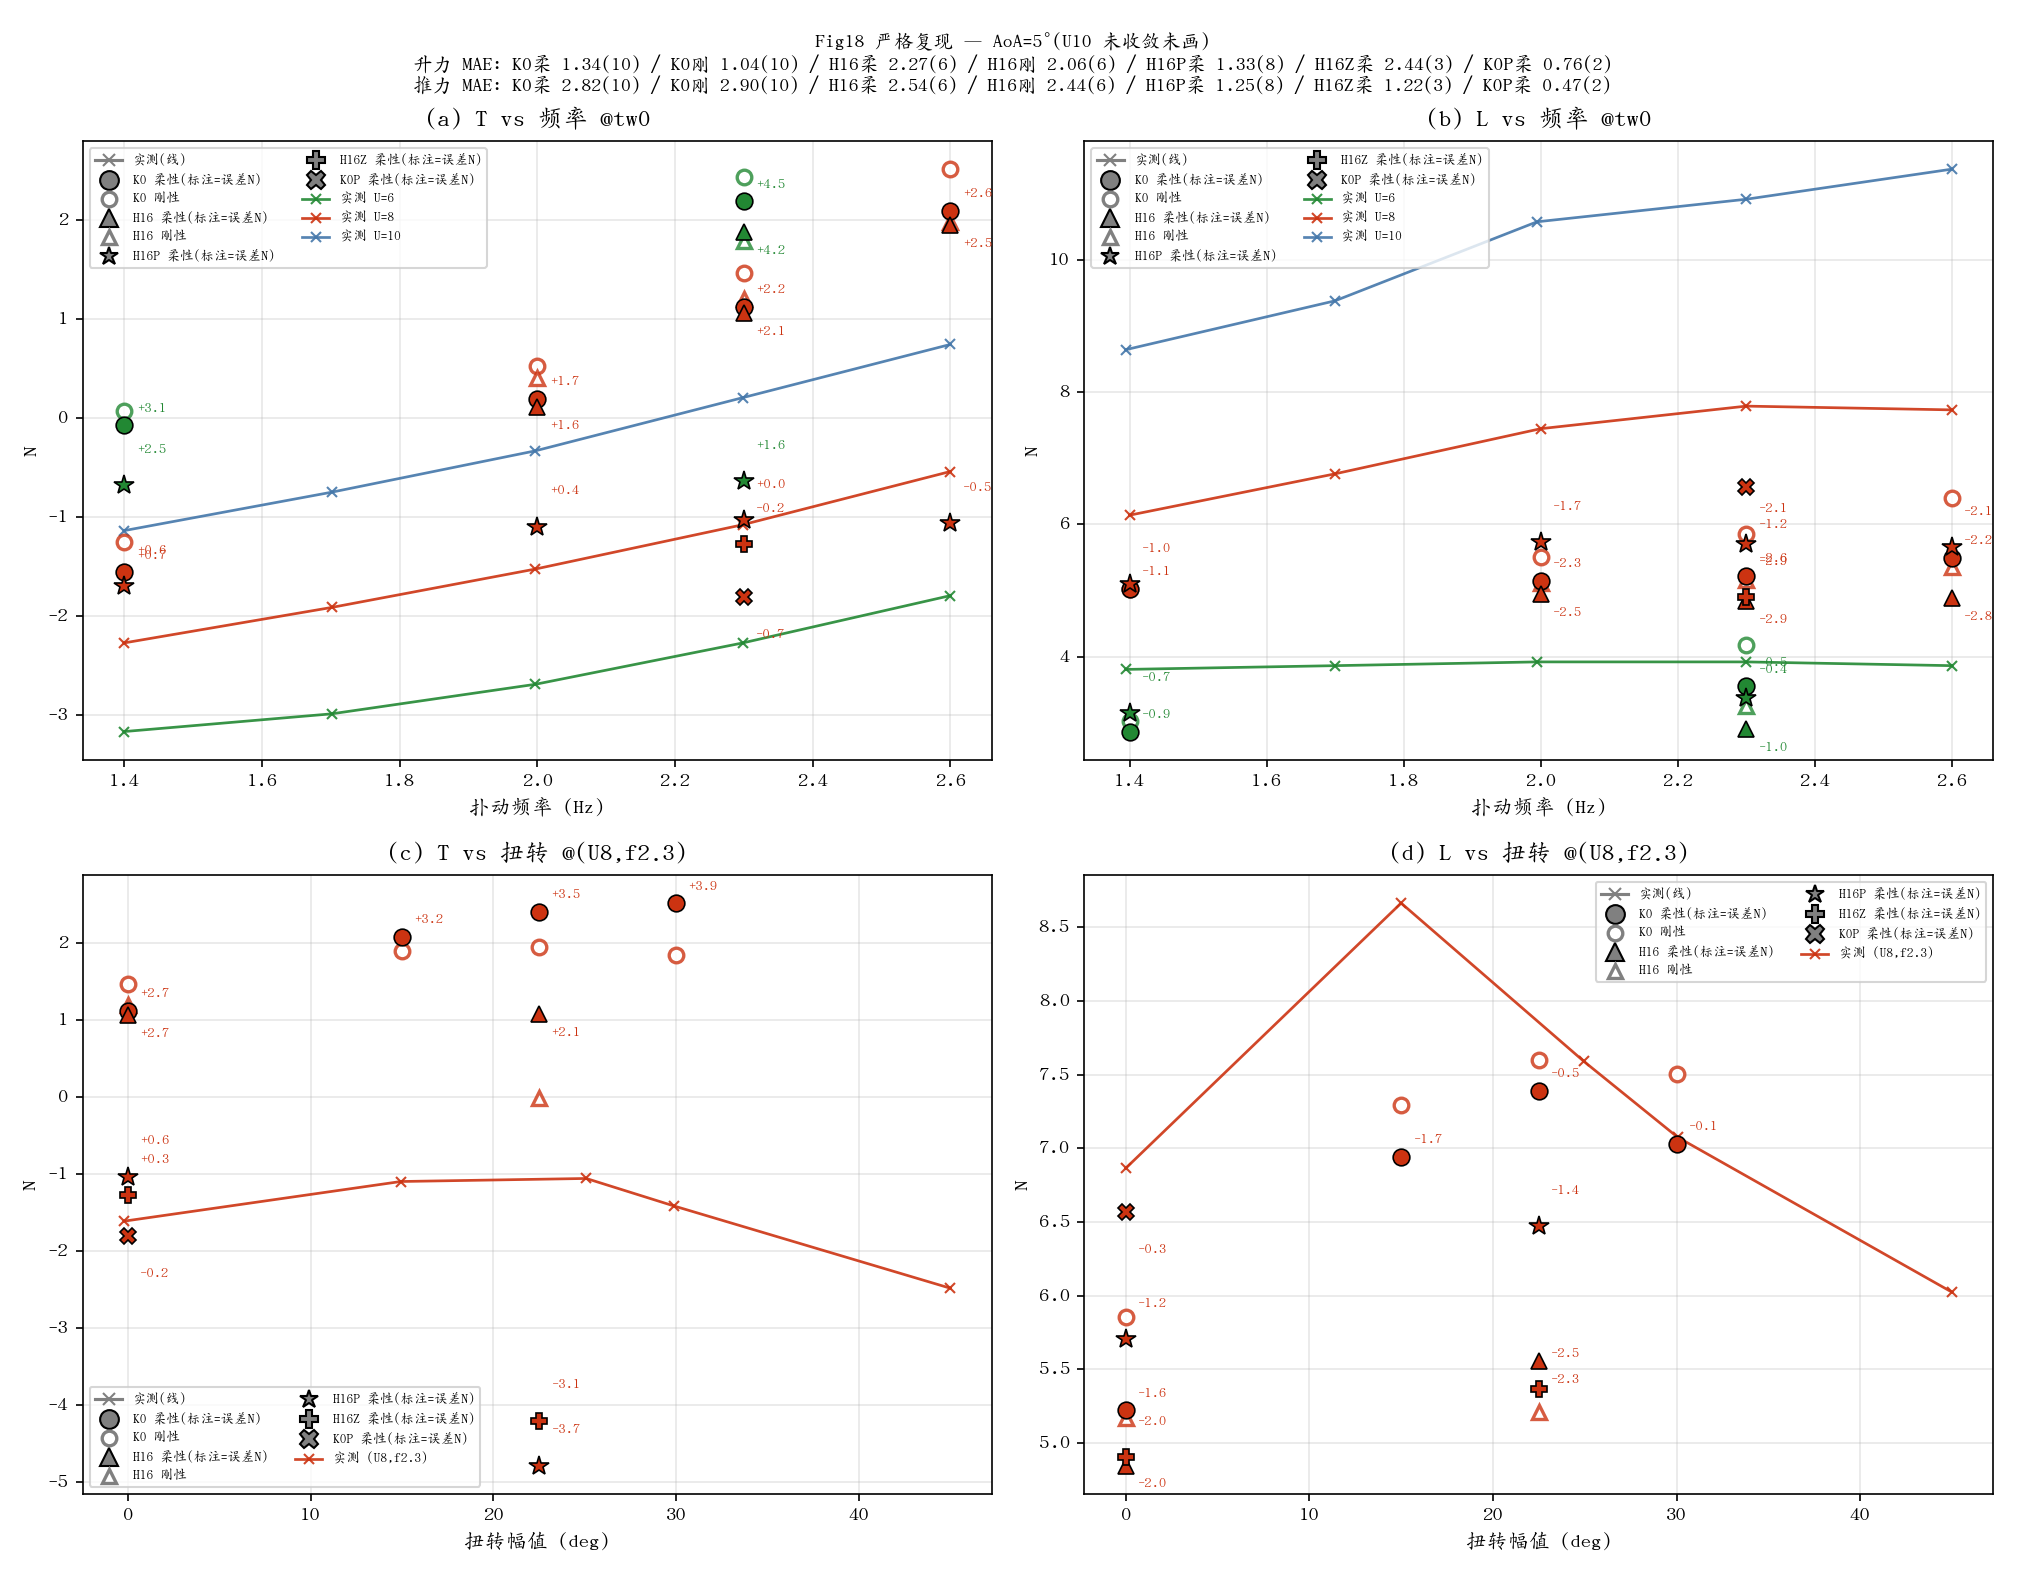
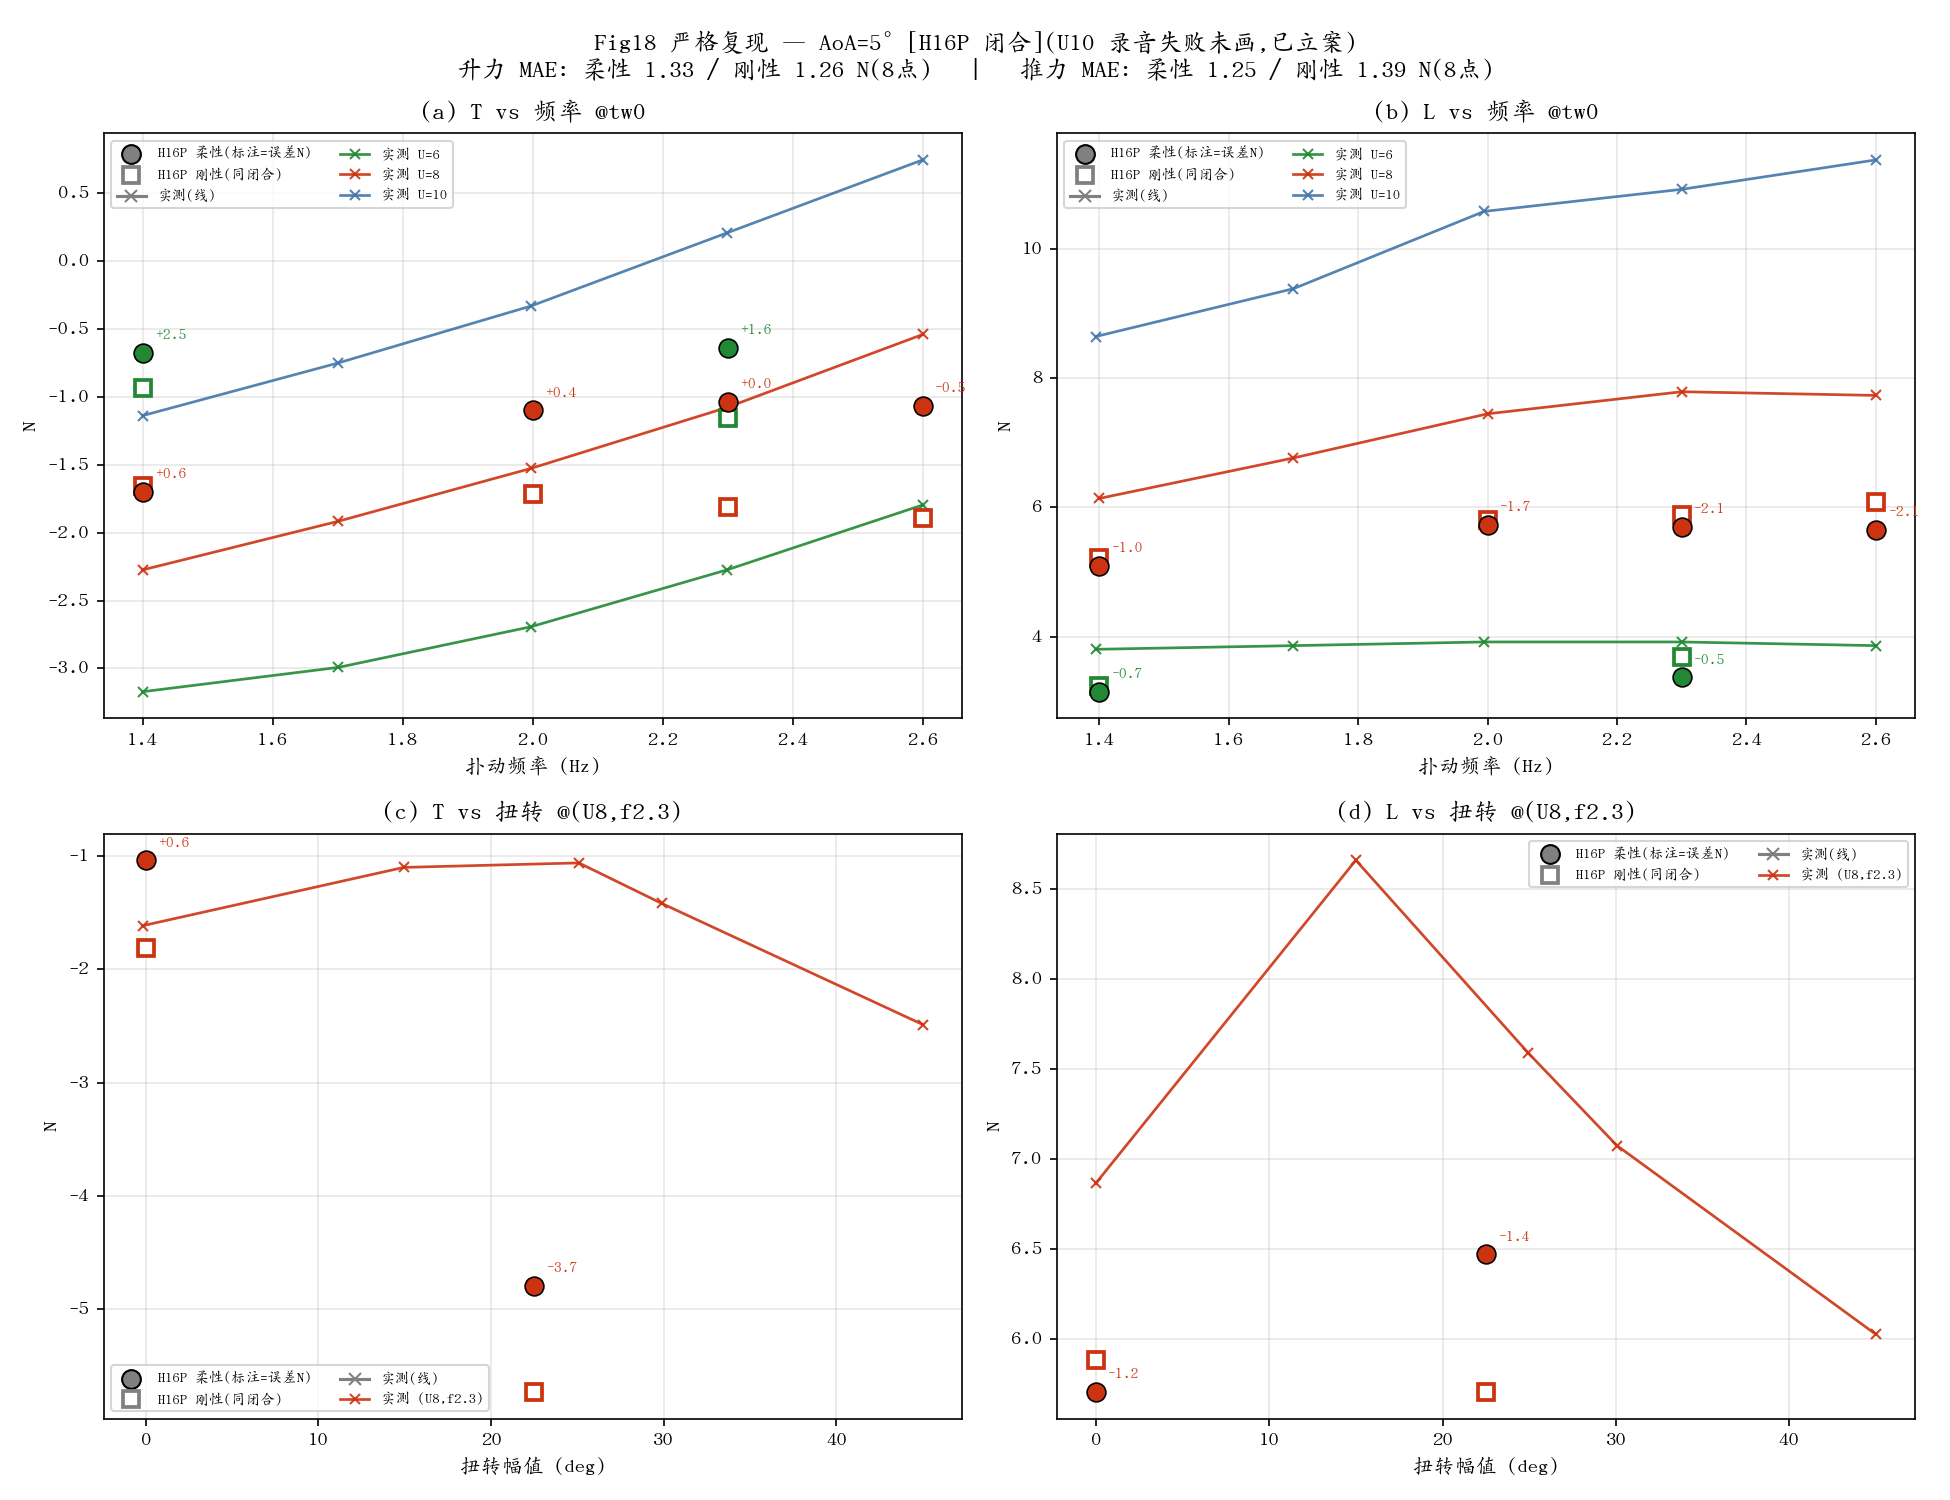
refactor(P2-S6): strict figs show current-best closure only (H16P)
Per review: drop stale K0/H16/H16Z/K0P families from Fig17/18/19; single
H16P family (flex/rigid) + measured, per-point errors, honest unfilled-
condition annotations (tw45/U10 recording failures filed; Fig19 f2.6
twist row recording queued; AoA 0/10/15 rows deferred by decision).

diff --git a/platform/p2_s6_fig_strict.py b/platform/p2_s6_fig_strict.py
@@ -1,12 +1,8 @@
-"""STRICT paper-format Fig17/18/19 reproduction: measured curve families +
-model points from MULTIPLE replay closures (K0, H16, and les_sep-corrected
-when available), flexible (filled) vs rigid (open), with per-point errors and
-per-family MAE summaries. Outputs docs/p2_s6_fig17.png / fig18.png / fig19.png.
+"""STRICT paper-format Fig17/18/19: measured families + the CURRENT BEST closure
+only (H16P = H16 + les_sep='polhamus', nc12 flexible replay; rigid = same closure).
+Per-point error annotations + MAE; unfilled conditions annotated honestly.
 
-Measured lines: docs/repro_data.json (paper digitization; kind field routes
-L/T). Model: docs/s6_results.json (K0), docs/s6_results_h16.json (H16),
-docs/s6_results_lessep.json (les_sep corrected closures, e.g. H16P).
-
+Data: docs/repro_data.json (measured), docs/s6_results_lessep.json (H16P).
 Run: cd FLUXV && python platform/p2_s6_fig_strict.py
 """
 import json
@@ -31,35 +27,15 @@ rcParams["axes.unicode_minus"] = False
 _HERE = os.path.dirname(os.path.abspath(__file__))
 DOCS = os.path.join(_HERE, "docs")
 MEAS = json.load(open(os.path.join(DOCS, "repro_data.json")))
+CFG = "H16P"                                       # current best closure
 
-
-def _load(fn, prefix=""):
-    p = os.path.join(DOCS, fn)
-    pts = {}
-    if not os.path.exists(p):
-        return pts
-    for k, v in json.load(open(p)).items():
-        if "flex" not in v:
-            continue
-        kk = k.split("|")[-1]                     # lessep keys are "CFG|U_f_tw"
-        cfg = v.get("cfg", k.split("|")[0] if "|" in k else prefix)
-        U, f, tw = (float(x) for x in kk.split("_"))
-        pts.setdefault(cfg, {})[(U, f, tw)] = v
-    return pts
-
-# FAMILIES[name] = (points, flex marker, rigid marker, annotation dy)
-_ALL = {}
-_ALL.update(_load("s6_results.json", "K0"))
-_ALL.update(_load("s6_results_h16.json", "H16"))
-_ALL.update(_load("s6_results_lessep.json"))
-FAM_STYLE = {                                     # (marker, ann_offset_y, draw_rigid)
-    "K0":   ("o", 6, True),
-    "H16":  ("^", -11, True),
-    "H16P": ("*", 15, False),
-    "H16Z": ("P", 15, False),
-    "K0P":  ("X", -20, False),
-}
-FAMILIES = {k: v for k, v in _ALL.items() if k in FAM_STYLE}
+PTS = {}
+_p = os.path.join(DOCS, "s6_results_lessep.json")
+if os.path.exists(_p):
+    for k, v in json.load(open(_p)).items():
+        if v.get("cfg") == CFG and "flex" in v:
+            U, f, tw = (float(x) for x in k.split("|")[-1].split("_"))
+            PTS[(U, f, tw)] = v
 
 FREQS = [1.4, 1.7, 2.0, 2.3, 2.6]
 FCOL = {1.4: "#4477aa", 1.7: "#66ccee", 2.0: "#228833", 2.3: "#cc3311",
@@ -74,20 +50,15 @@ def _clear():
 
 
 def _mae(idx):
-    out = []
-    for fam in FAMILIES:
-        for kind in ("flex", "rigid"):
-            e = ERRS.get((fam, kind, idx))
-            if e:
-                out.append(f"{fam}{'柔' if kind=='flex' else '刚'} {np.mean(e):.2f}({len(e)})")
-    return " / ".join(out) if out else "—"
+    fl, rg = ERRS.get(("flex", idx), []), ERRS.get(("rigid", idx), [])
+    if not fl:
+        return "—"
+    return (f"柔性 {np.mean(fl):.2f} / 刚性 {np.mean(rg):.2f} N({len(fl)}点)")
 
 
 def meas_at(key, x):
     d = MEAS.get(key)
-    if d is None:
-        return None
-    return float(np.interp(x, d["x"], d["exp"]))
+    return None if d is None else float(np.interp(x, d["x"], d["exp"]))
 
 
 def draw_meas(ax, key, color, label=None):
@@ -99,45 +70,33 @@ def draw_meas(ax, key, color, label=None):
 
 
 def draw_model(ax, x, cond, idx, mkey, color):
-    """Plot every closure family's flex (filled) + rigid (open) points."""
+    v = PTS.get(cond)
+    if v is None:
+        return
     mv = meas_at(mkey, x)
-    for fam, pts in FAMILIES.items():
-        v = pts.get(cond)
-        if v is None:
-            continue
-        mk, dy, do_rigid = FAM_STYLE[fam]
-        fl = v["flex"][idx]
-        ax.plot(x, fl, mk, ms=10 if mk == "*" else 8, color=color,
-                mec="black", mew=0.8, zorder=6)
-        if do_rigid:
-            ax.plot(x, v["rigid"][idx], mk, ms=7, mfc="white", mec=color,
-                    mew=1.6, zorder=5, alpha=0.8)
-        if mv is not None:
-            ERRS.setdefault((fam, "flex", idx), []).append(abs(fl - mv))
-            if do_rigid:
-                ERRS.setdefault((fam, "rigid", idx), []).append(
-                    abs(v["rigid"][idx] - mv))
-            ax.annotate(f"{fl - mv:+.1f}", (x, fl),
-                        textcoords="offset points", xytext=(6, dy),
-                        fontsize=7, color=color)
+    fl, rg = v["flex"][idx], v["rigid"][idx]
+    ax.plot(x, fl, "o", ms=9, color=color, mec="black", mew=0.8, zorder=6)
+    ax.plot(x, rg, "s", ms=8, mfc="white", mec=color, mew=1.8, zorder=5)
+    if mv is not None:
+        ERRS.setdefault(("flex", idx), []).append(abs(fl - mv))
+        ERRS.setdefault(("rigid", idx), []).append(abs(rg - mv))
+        ax.annotate(f"{fl - mv:+.1f}", (x, fl), textcoords="offset points",
+                    xytext=(6, 6), fontsize=7.5, color=color)
 
 
 def legend_common(ax):
-    h = [Line2D([], [], marker="x", ls="-", color="gray", label="实测(线)")]
-    for fam in FAMILIES:
-        mk, _, do_rigid = FAM_STYLE[fam]
-        h.append(Line2D([], [], marker=mk, ls="", ms=9, mfc="gray",
-                        mec="black", label=f"{fam} 柔性(标注=误差N)"))
-        if do_rigid:
-            h.append(Line2D([], [], marker=mk, ls="", ms=7, mfc="white",
-                            mec="gray", mew=1.6, label=f"{fam} 刚性"))
-    ax.legend(handles=h + ax.get_legend_handles_labels()[0], fontsize=6.5,
+    h = [Line2D([], [], marker="o", ls="", ms=9, mfc="gray", mec="black",
+                label=f"{CFG} 柔性(标注=误差N)"),
+         Line2D([], [], marker="s", ls="", ms=8, mfc="white", mec="gray",
+                mew=1.8, label=f"{CFG} 刚性(同闭合)"),
+         Line2D([], [], marker="x", ls="-", color="gray", label="实测(线)")]
+    ax.legend(handles=h + ax.get_legend_handles_labels()[0], fontsize=7,
               ncol=2, loc="best")
 
 
 def fig17():
     _clear()
-    fig, (axT, axL) = plt.subplots(1, 2, figsize=(13.5, 5.8))
+    fig, (axT, axL) = plt.subplots(1, 2, figsize=(13, 5.5))
     for fr in FREQS:
         draw_meas(axT, f"17|a|{fr}", FCOL[fr], f"实测 f={fr}")
         draw_meas(axL, f"17|b|{fr}", FCOL[fr], f"实测 f={fr}")
@@ -149,8 +108,9 @@ def fig17():
         ax.set_xlabel("扭转幅值 (deg)"); ax.set_ylabel("N")
         ax.grid(alpha=0.3); ax.set_title(ttl)
         legend_common(ax)
-    fig.suptitle("Fig17 严格复现 — U=8 m/s, AoA=5°(模型点=f2.3 行; tw45 未收敛未画)\n"
-                 f"升力 MAE: {_mae(0)}\n推力 MAE: {_mae(1)}", fontsize=9.5)
+    fig.suptitle(f"Fig17 严格复现 — U=8, AoA=5°, 模型点=f2.3 行 [{CFG} 闭合]"
+                 "(tw45 录音失败未画,已立案)\n"
+                 f"升力 MAE: {_mae(0)}   |   推力 MAE: {_mae(1)}")
     fig.tight_layout()
     fig.savefig(os.path.join(DOCS, "p2_s6_fig17.png"), dpi=150)
     plt.close(fig)
@@ -158,7 +118,7 @@ def fig17():
 
 def fig18():
     _clear()
-    fig, axes = plt.subplots(2, 2, figsize=(13.5, 10.5))
+    fig, axes = plt.subplots(2, 2, figsize=(13, 10))
     axT, axL, axCT, axDL = axes[0, 0], axes[0, 1], axes[1, 0], axes[1, 1]
     for U in (6.0, 8.0, 10.0):
         draw_meas(axT, f"18|a|{U}", UCOL[U], f"实测 U={U:g}")
@@ -180,8 +140,9 @@ def fig18():
         ax.set_xlabel("扭转幅值 (deg)"); ax.set_ylabel("N")
         ax.grid(alpha=0.3); ax.set_title(ttl)
         legend_common(ax)
-    fig.suptitle("Fig18 严格复现 — AoA=5°(U10 未收敛未画)\n"
-                 f"升力 MAE: {_mae(0)}\n推力 MAE: {_mae(1)}", fontsize=9.5)
+    fig.suptitle(f"Fig18 严格复现 — AoA=5° [{CFG} 闭合]"
+                 "(U10 录音失败未画,已立案)\n"
+                 f"升力 MAE: {_mae(0)}   |   推力 MAE: {_mae(1)}")
     fig.tight_layout()
     fig.savefig(os.path.join(DOCS, "p2_s6_fig18.png"), dpi=150)
     plt.close(fig)
@@ -189,7 +150,7 @@ def fig18():
 
 def fig19():
     _clear()
-    fig, axes = plt.subplots(2, 2, figsize=(13.5, 10.5))
+    fig, axes = plt.subplots(2, 2, figsize=(13, 10))
     axT, axL, axCT, axDL = axes[0, 0], axes[0, 1], axes[1, 0], axes[1, 1]
     for a in (0, 5, 10, 15):
         draw_meas(axT, f"19|a|{a}", ACOL[a], f"实测 AoA={a}")
@@ -205,19 +166,23 @@ def fig19():
     for a in (0, 5, 10, 15):
         draw_meas(axCT, f"19|c|{a}", ACOL[a], f"实测 AoA={a}")
         draw_meas(axDL, f"19|d|{a}", ACOL[a], f"实测 AoA={a}")
-    for ax, ttl in ((axCT, "(c) T vs 扭转 @f2.6(模型工况未算)"),
-                    (axDL, "(d) L vs 扭转 @f2.6(模型工况未算)")):
+    for tw in (0.0, 15.0, 22.5, 30.0, 45.0):       # f2.6 twist row (AoA=5)
+        draw_model(axCT, tw, (8.0, 2.6, tw), 1, "19|c|5", ACOL[5])
+        draw_model(axDL, tw, (8.0, 2.6, tw), 0, "19|d|5", ACOL[5])
+    for ax, ttl in ((axCT, "(c) T vs 扭转 @f2.6"),
+                    (axDL, "(d) L vs 扭转 @f2.6")):
         ax.set_xlabel("扭转幅值 (deg)"); ax.set_ylabel("N")
         ax.grid(alpha=0.3); ax.set_title(ttl)
-        ax.legend(fontsize=7)
-    fig.suptitle("Fig19 严格复现 — 模型仅 AoA=5° 线(其余攻角/f2.6 扭转行未算,已拍板搁置)\n"
-                 f"升力 MAE: {_mae(0)}\n推力 MAE: {_mae(1)}", fontsize=9.5)
+        legend_common(ax)
+    fig.suptitle(f"Fig19 严格复现 — 模型=AoA5° 线 [{CFG} 闭合]"
+                 "(f2.6 扭转行录音进行中;AoA 0/10/15 行需改录音管线,已拍板搁置)\n"
+                 f"升力 MAE: {_mae(0)}   |   推力 MAE: {_mae(1)}")
     fig.tight_layout()
     fig.savefig(os.path.join(DOCS, "p2_s6_fig19.png"), dpi=150)
     plt.close(fig)
 
 
 if __name__ == "__main__":
-    print("families:", {k: len(v) for k, v in FAMILIES.items()})
+    print(f"{CFG} points: {len(PTS)}")
     fig17(); fig18(); fig19()
-    print("saved p2_s6_fig17/18/19.png (分族 MAE 在各图标题)")
+    print("saved p2_s6_fig17/18/19.png")
